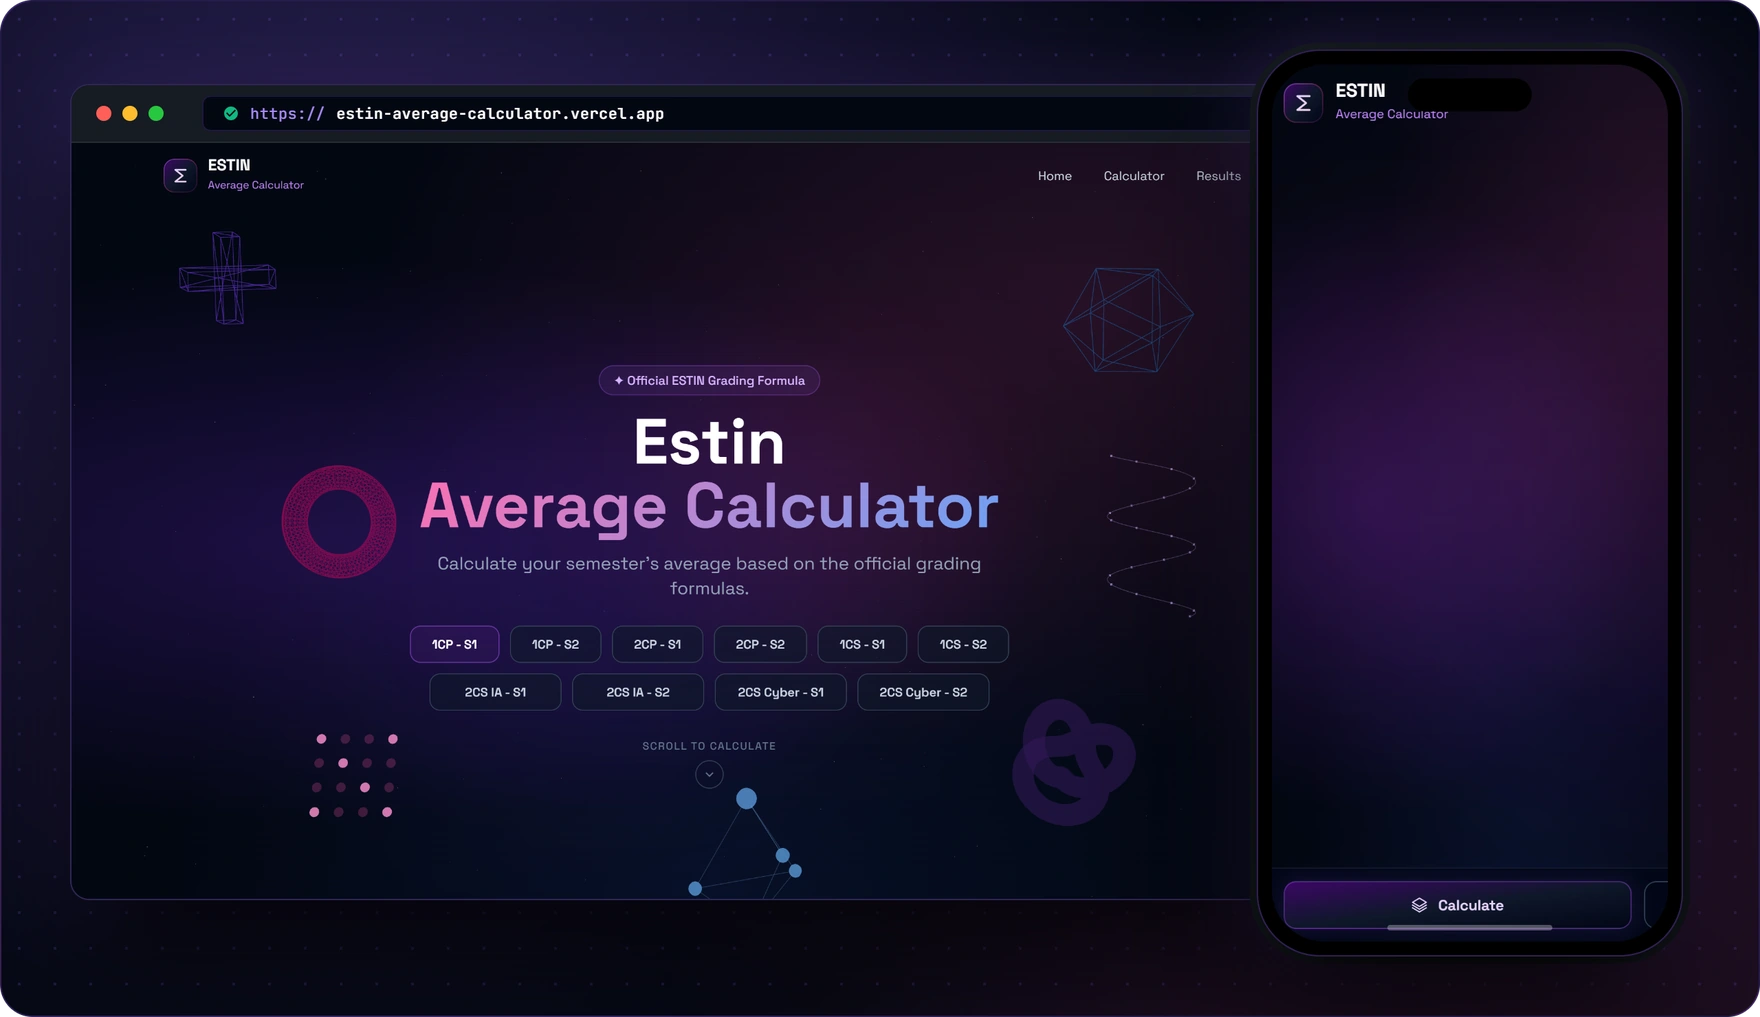
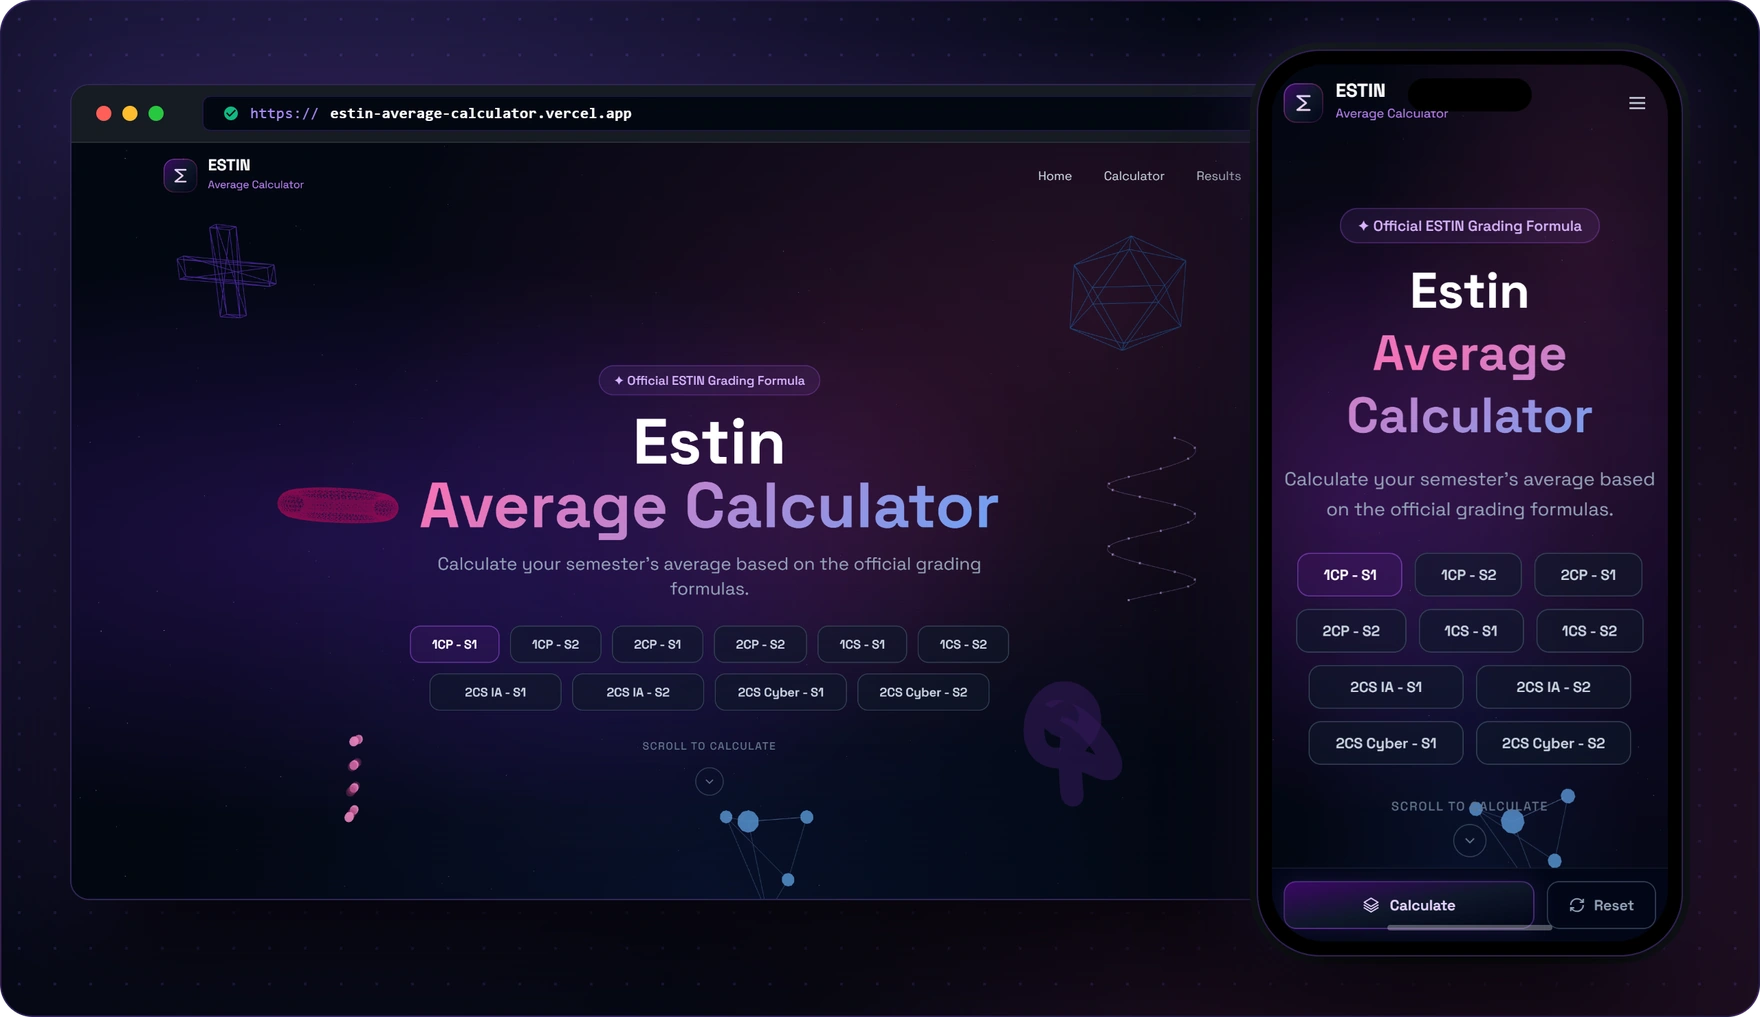
docs: remove getting started section & refresh preview mockup with settled hero animations

diff --git a/scripts/render-readme-assets.py b/scripts/render-readme-assets.py
@@ -2,18 +2,11 @@
 
 Usage:
     python scripts/render-readme-assets.py
-
-Steps:
-1. Captures live screenshots from https://estin-average-calculator.vercel.app:
-   - Desktop homepage (1440x900 at 2x)
-   - Mobile homepage (390x844 at 2x)
-2. Renders .github/assets/src/{banner,stats,preview}.html at 2x with transparent background.
-3. Generates optimized WebP assets in .github/assets/:
-   - banner.webp (1760px wide)
-   - stats.webp (1760px wide)
-   - preview.webp (1760px wide)
 """
+import asyncio
+import base64
 import http.server
+import json
 import os
 import shutil
 import socketserver
@@ -22,14 +15,17 @@ import sys
 import tempfile
 import threading
 import time
+import urllib.request
 from pathlib import Path
 from PIL import Image
+import websockets
 
 ROOT = Path(__file__).resolve().parent.parent
 SRC = ROOT / ".github" / "assets" / "src"
 SHOTS = SRC / "shots"
 OUT = ROOT / ".github" / "assets"
 PORT = 5533
+DEBUG_PORT = 9228
 LIVE_URL = "https://estin-average-calculator.vercel.app"
 
 CANDIDATES = [
@@ -65,7 +61,60 @@ def start_server() -> socketserver.TCPServer:
     return httpd
 
 
-def shoot(url: str, out: Path, width: int, height: int, transparent: bool = False, mobile: bool = False, delay_ms: int = 5000) -> None:
+async def capture_cdp(url: str, out_png: Path, width: int, height: int, mobile: bool = False, wait_sec: int = 6):
+    browser = find_browser()
+    with tempfile.TemporaryDirectory() as profile:
+        proc = subprocess.Popen([
+            browser, '--headless=new', f'--user-data-dir={profile}',
+            f'--remote-debugging-port={DEBUG_PORT}',
+            f'--window-size={width},{height}',
+            'about:blank'
+        ])
+        await asyncio.sleep(1.5)
+        try:
+            res = urllib.request.urlopen(f'http://127.0.0.1:{DEBUG_PORT}/json/list')
+            pages = json.loads(res.read())
+            page = next(p for p in pages if p.get('type') == 'page')
+            ws_url = page['webSocketDebuggerUrl']
+
+            async with websockets.connect(ws_url, max_size=20*1024*1024) as ws:
+                if mobile:
+                    await ws.send(json.dumps({
+                        'id': 1, 'method': 'Emulation.setDeviceMetricsOverride',
+                        'params': {'width': width, 'height': height, 'deviceScaleFactor': 2, 'mobile': True}
+                    }))
+                    await ws.recv()
+                else:
+                    await ws.send(json.dumps({
+                        'id': 1, 'method': 'Emulation.setDeviceMetricsOverride',
+                        'params': {'width': width, 'height': height, 'deviceScaleFactor': 2, 'mobile': False}
+                    }))
+                    await ws.recv()
+
+                await ws.send(json.dumps({
+                    'id': 2, 'method': 'Page.navigate', 'params': {'url': url}
+                }))
+                await ws.recv()
+
+                print(f"  [⏳] Waiting {wait_sec}s for full Framer Motion & Three.js animations ({width}x{height})...")
+                await asyncio.sleep(wait_sec)
+
+                await ws.send(json.dumps({'id': 3, 'method': 'Page.captureScreenshot', 'params': {'format': 'png'}}))
+                while True:
+                    msg = json.loads(await ws.recv())
+                    if msg.get('id') == 3:
+                        data = base64.b64decode(msg['result']['data'])
+                        out_png.parent.mkdir(parents=True, exist_ok=True)
+                        with open(out_png, 'wb') as f:
+                            f.write(data)
+                        break
+            print(f"  [+] Captured: {out_png.name} ({width}x{height})")
+        finally:
+            proc.terminate()
+            proc.wait()
+
+
+def shoot_card(url: str, out: Path, width: int, height: int) -> None:
     out.parent.mkdir(parents=True, exist_ok=True)
     with tempfile.TemporaryDirectory() as profile:
         args = [
@@ -75,22 +124,15 @@ def shoot(url: str, out: Path, width: int, height: int, transparent: bool = Fals
             "--hide-scrollbars",
             "--force-device-scale-factor=2",
             f"--window-size={width},{height}",
-            f"--virtual-time-budget={delay_ms}",
+            "--default-background-color=00000000",
             f"--screenshot={str(out.resolve())}",
+            url
         ]
-        if transparent:
-            args.append("--default-background-color=00000000")
-        if mobile:
-            args.append(
-                "--user-agent=Mozilla/5.0 (iPhone; CPU iPhone OS 17_0 like Mac OS X) "
-                "AppleWebKit/605.1.15 (KHTML, like Gecko) Version/17.0 Mobile/15E148 Safari/604.1"
-            )
-        args.append(url)
-        subprocess.run(args, check=True, stdout=subprocess.DEVNULL, stderr=subprocess.DEVNULL, timeout=120)
-    print(f"  [+] Captured: {out.name} ({width}x{height})")
+        subprocess.run(args, check=True, stdout=subprocess.DEVNULL, stderr=subprocess.DEVNULL, timeout=60)
+    print(f"  [+] Card rendered: {out.name} ({width}x{height})")
 
 
-def convert_webp(src_png: Path, out_webp: Path, target_width: int = 1760, quality: int = 92) -> None:
+def convert_webp(src_png: Path, out_webp: Path, target_width: int = 1760, quality: int = 94) -> None:
     with Image.open(src_png) as img:
         w, h = img.size
         new_h = int(h * (target_width / w))
@@ -108,10 +150,10 @@ def main():
     SHOTS.mkdir(parents=True, exist_ok=True)
     OUT.mkdir(parents=True, exist_ok=True)
 
-    # 1. Capture live screenshots
-    print("\n1. Capturing live UI from Vercel...")
-    shoot(LIVE_URL, SHOTS / "desktop.png", 1440, 900, delay_ms=6000)
-    shoot(LIVE_URL, SHOTS / "mobile.png", 390, 844, mobile=True, delay_ms=6000)
+    # 1. Capture live UI screenshots with full animation settling
+    print("\n1. Capturing live UI from Vercel (waiting for full hero content)...")
+    asyncio.run(capture_cdp(LIVE_URL, SHOTS / "desktop.png", 1440, 900, mobile=False, wait_sec=6))
+    asyncio.run(capture_cdp(LIVE_URL, SHOTS / "mobile.png", 390, 844, mobile=True, wait_sec=6))
 
     # 2. Start local server to render HTML cards
     print("\n2. Starting local server for card rendering...")
@@ -128,13 +170,17 @@ def main():
         print("\n3. Rendering cards via headless browser...")
         for html_name, png_name, w, h in cards:
             url = f"http://127.0.0.1:{PORT}/{html_name}"
-            png_path = SHOTS / png_name
-            shoot(url, png_path, w, h, transparent=True, delay_ms=3000)
+            shoot_card(url, SHOTS / png_name, w, h)
 
         print("\n4. Converting to optimized WebP...")
         convert_webp(SHOTS / "banner.png", OUT / "banner.webp", target_width=1760, quality=94)
         convert_webp(SHOTS / "stats.png", OUT / "stats.webp", target_width=1760, quality=94)
         convert_webp(SHOTS / "preview.png", OUT / "preview.webp", target_width=1760, quality=94)
+
+        # Remove unneeded intermediate PNGs
+        for p in [SHOTS / "banner.png", SHOTS / "stats.png", SHOTS / "preview.png"]:
+            if p.exists():
+                p.unlink()
 
     finally:
         httpd.shutdown()

diff --git a/README.md b/README.md
@@ -33,7 +33,6 @@ Engineered with real-time mathematical validation, interactive 3D spatial graphi
 [**System Architecture**](#-system-architecture) &nbsp;✦&nbsp;
 [**Visual Identity**](#-visual-identity--design-tokens) &nbsp;✦&nbsp;
 [**Project Structure**](#-project-structure) &nbsp;✦&nbsp;
-[**Getting Started**](#-getting-started) &nbsp;✦&nbsp;
 [**The Author**](#-the-author--leadership)
 
 </div>
@@ -341,62 +340,6 @@ ESTIN-Average-Calculator/
 ├── next.config.js                    # Next.js production build configuration
 └── package.json                      # Dependencies and npm automation scripts
 ```
-
-<br>
-
----
-
-## ✦ Getting Started
-
-### Prerequisites
-
-* **Node.js:** `v18.17.0` or higher
-* **Package Manager:** `npm` (or `pnpm` / `yarn`)
-
-### Installation
-
-1. **Clone the repository:**
-   ```bash
-   git clone https://github.com/islemredouane/ESTIN-Average-Calculator.git
-   cd ESTIN-Average-Calculator
-   ```
-
-2. **Install dependencies:**
-   ```bash
-   npm install
-   ```
-
-3. **Start local development server:**
-   ```bash
-   npm run dev
-   ```
-   Open [http://localhost:3001](http://localhost:3001) in your browser.
-
-### Building for Production
-
-Compile and generate an optimized standalone build:
-
-```bash
-npm run build
-npm start
-```
-
-### Deployment
-
-The repository is tailored for **Vercel**:
-1. Push your changes to `main`.
-2. Connect your repository on [vercel.com](https://vercel.com).
-3. The platform auto-detects Next.js 14 and deploys instantly with edge acceleration and Vercel Analytics enabled.
-
-<details>
-<summary><b>Maintaining README visual assets</b></summary>
-<br>
-
-The banner, numbers card, and device preview mockups are generated from source HTML templates in `.github/assets/src/`:
-1. Edit `.github/assets/src/banner.html`, `stats.html`, or `preview.html`.
-2. Run `python scripts/render-readme-assets.py`: it captures fresh screenshots from the live deployment, renders the cards in headless Edge/Chrome at 2× with transparent backgrounds, and generates optimized WebP assets in `.github/assets/` (`banner.webp`, `stats.webp`, `preview.webp`).
-
-</details>
 
 <br>
 
